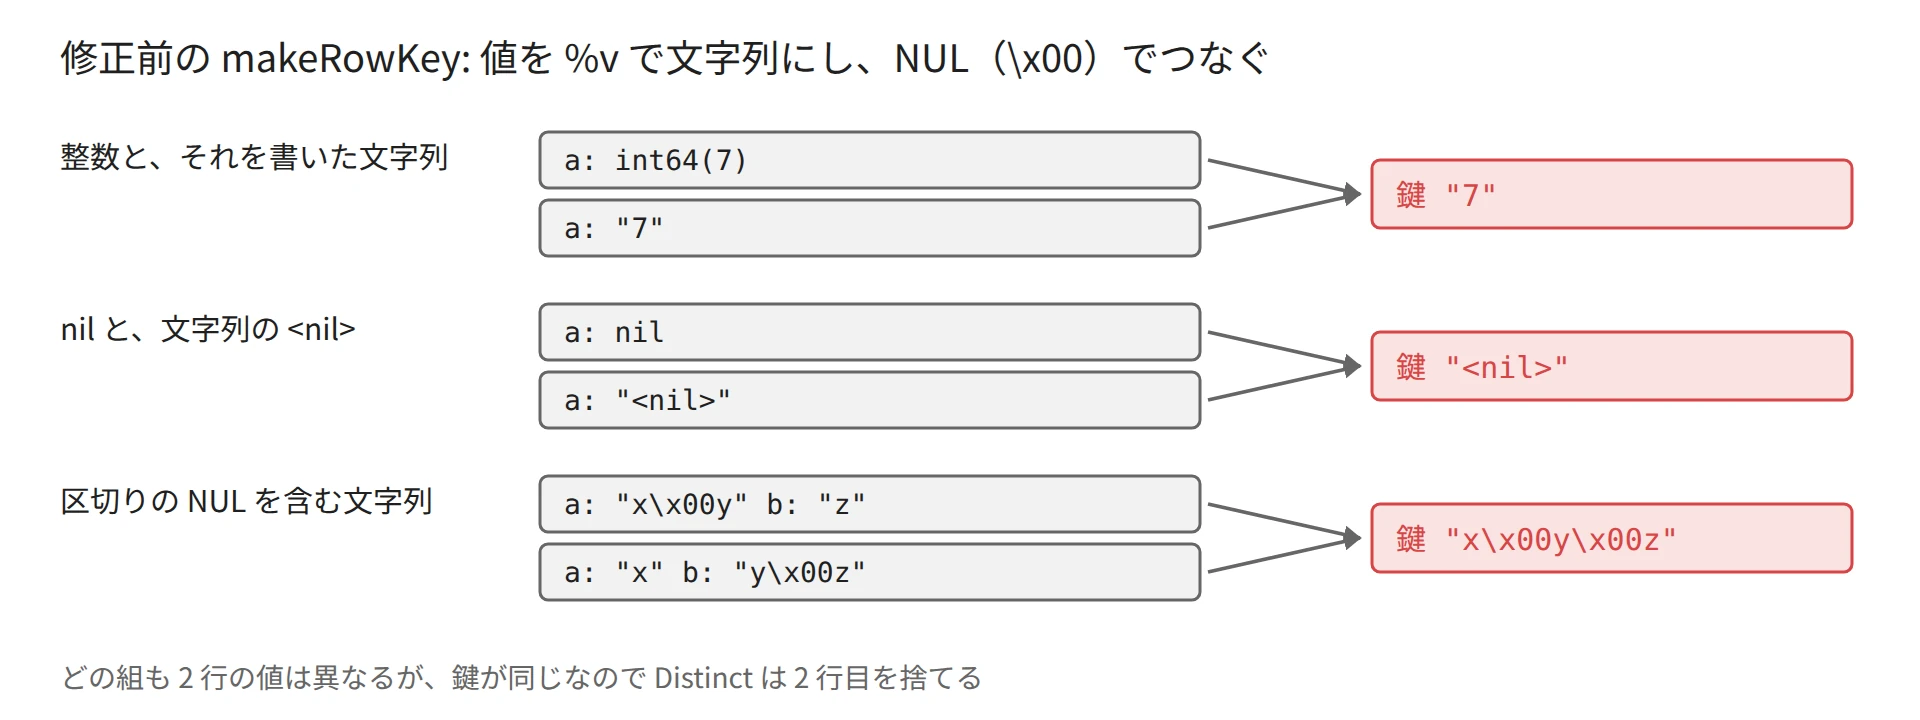
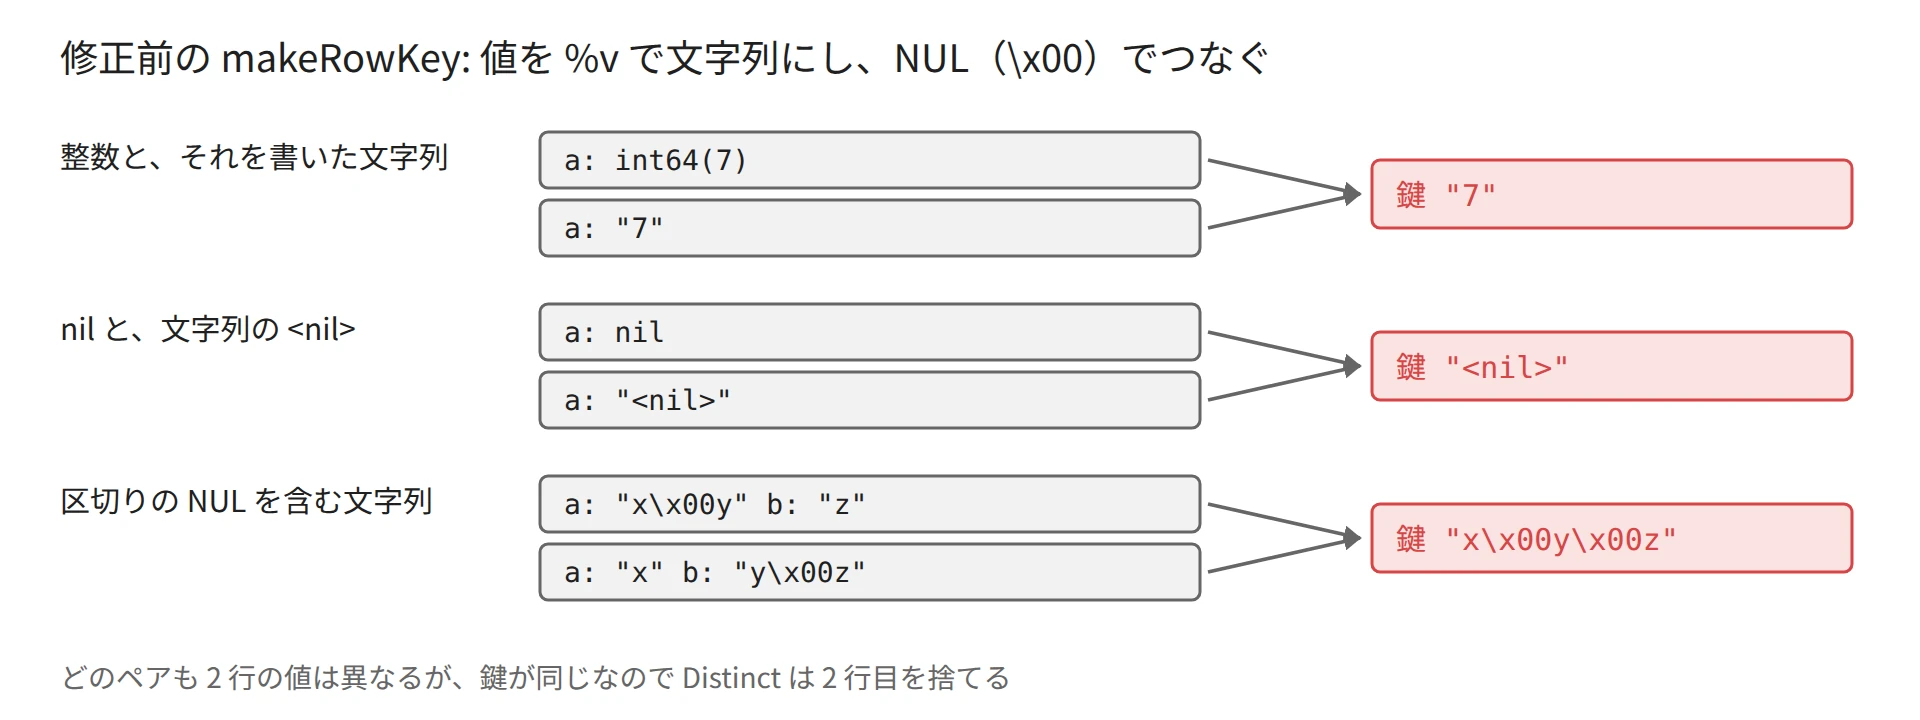
docs(notes): replace the bare 組 in the Property-Based Testing note and its figure
Claude-Session: https://claude.ai/code/session_01YUxqeZKPbCLCF82LgM8vBK

Changed region(s): [[0.0625, 0.9167, 0.5312, 0.9778]]

diff --git a/content/notes/software-testing/property-based-testing/figures.py b/content/notes/software-testing/property-based-testing/figures.py
@@ -8,7 +8,7 @@
 
 - cover_figure(): 表紙。修正前の Distinct に同じプロパティを掛けた時、testing/quick が報告した反例（10 行）と
   rapid が縮めた反例（2 行）を並べる（lab/output/exp1_shrink.tsv の種 1）。
-- keys_figure(): 修正前の makeRowKey が、異なる 2 行に同じ鍵を作る 3 つの組（filesql Issue #354）。
+- keys_figure(): 修正前の makeRowKey が、異なる 2 行に同じ鍵を作る 3 つのペア（filesql Issue #354）。
 - shrink_animation(): rapid が種 1 の反例を縮める途中で、プロパティが破れた表を順に見せる動画
   （lab/output/exp1_shrink_steps_seed1.txt）。
 - float_figure(): 修正後の鍵が整数を float64 にしてから文字列にするので、2^53 を超えると
@@ -188,7 +188,7 @@ def keys_figure():
         key = buggy_key(r1 + ((None,) * 0)).replace("\x00", "\\x00")
         s.box(686, y + 14, 240, 34, RED_PALE, RED, rx=4)
         s.text(698, y + 37, f'鍵 "{key}"', 15, RED, "start", mono=True)
-    s.text(30, 344, "どの組も 2 行の値は異なるが、鍵が同じなので Distinct は 2 行目を捨てる", 14, SUB, "start")
+    s.text(30, 344, "どのペアも 2 行の値は異なるが、鍵が同じなので Distinct は 2 行目を捨てる", 14, SUB, "start")
     s.save("keys.webp")
 
 
